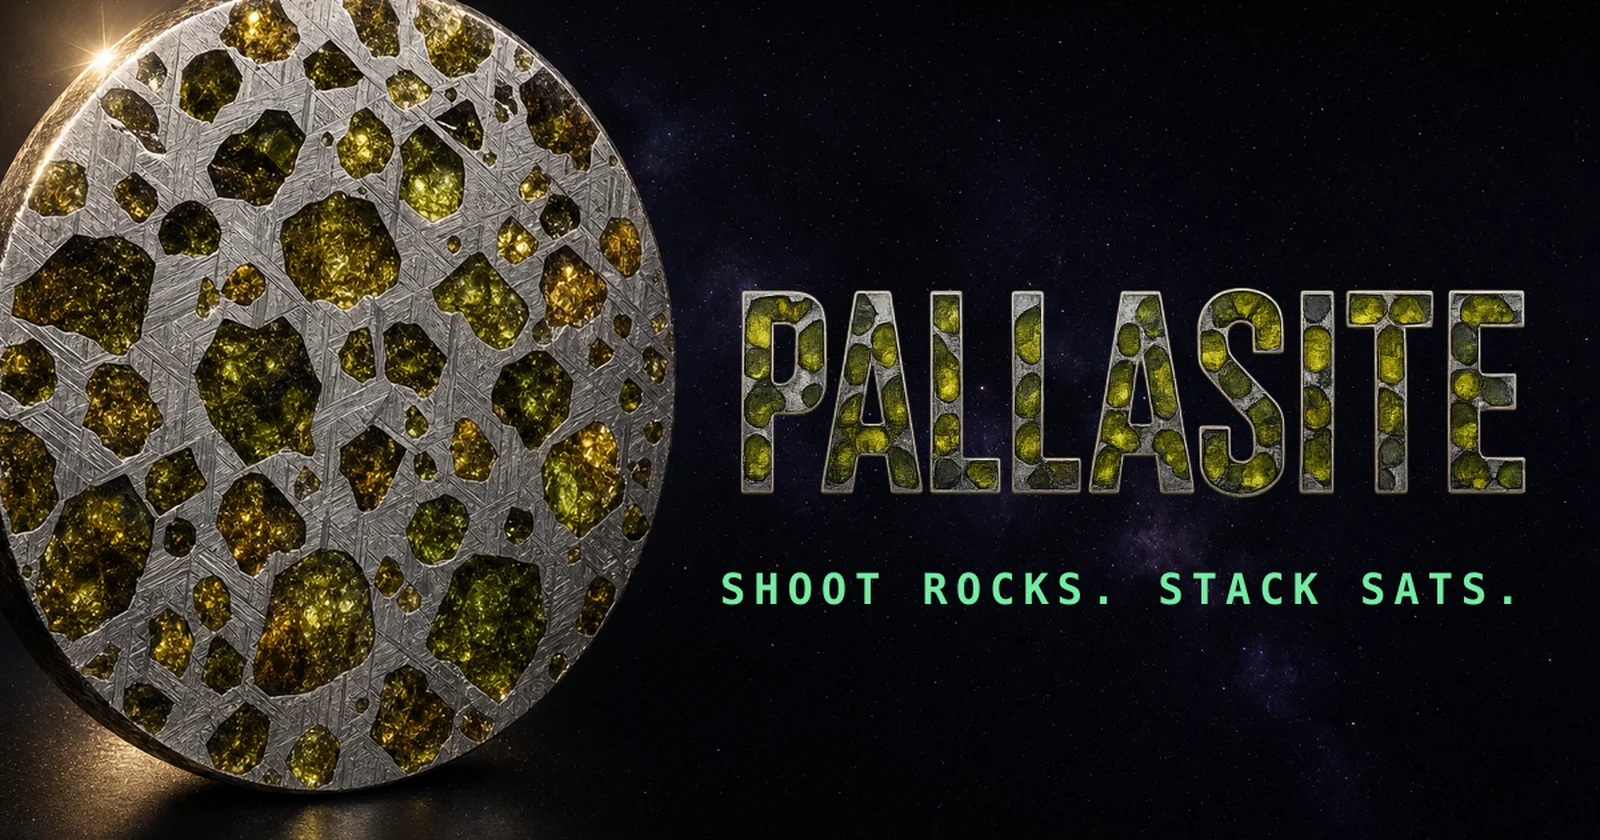
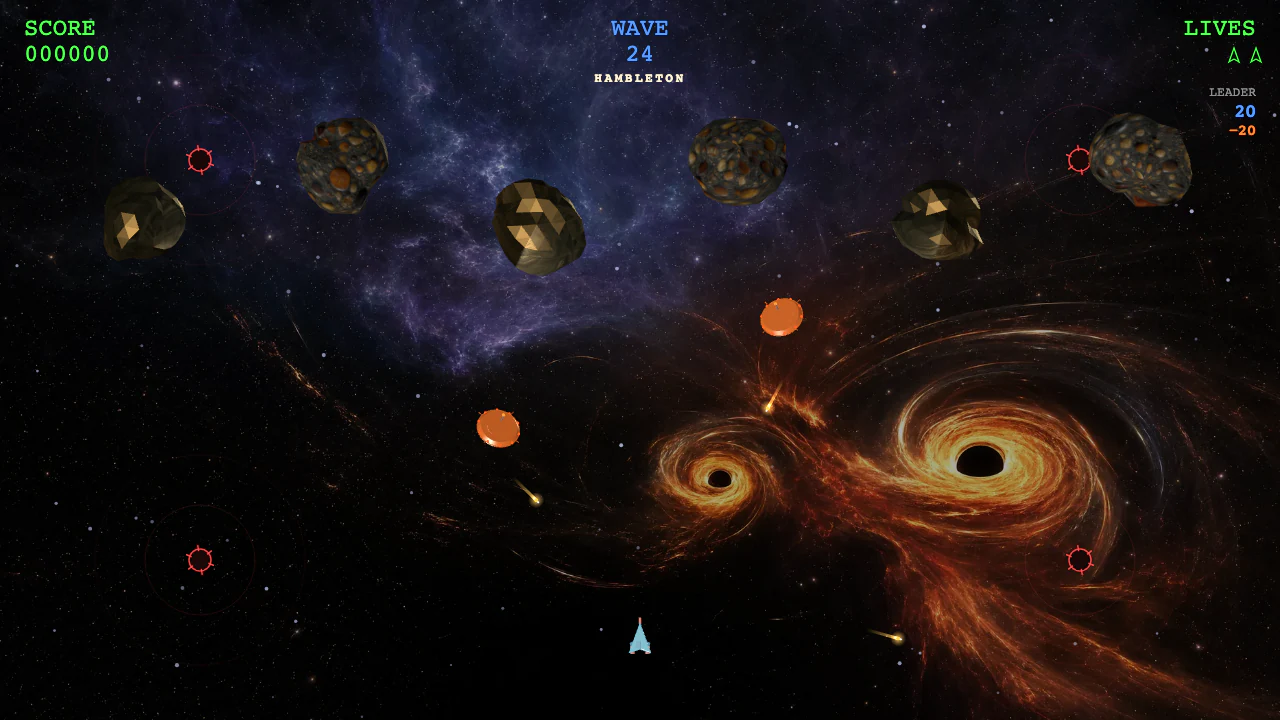
feat(web): improve Pallasite art and mark 600 members

diff --git a/test/well-known-members.test.ts b/test/well-known-members.test.ts
@@ -1,0 +1,39 @@
+import { describe, expect, it, vi } from 'vitest'
+import { loadWellKnownMembers, parseWellKnownMembers, SIX_HUNDRED_MEMBER_DIRECTORY } from '../src/web/well-known-members'
+
+const ALICE = 'a'.repeat(64)
+
+describe('600 well-known members', () => {
+  it('reverses valid NIP-05 names into a pubkey membership map', () => {
+    const members = parseWellKnownMembers({ names: {
+      alice: ALICE.toUpperCase(),
+      alias: ALICE,
+      broken: 'not-a-pubkey',
+      '<unsafe>': '1'.repeat(64),
+    } })
+
+    expect(Array.from(members.entries())).toEqual([[ALICE, 'alice']])
+  })
+
+  it('rejects malformed directory payloads', () => {
+    expect(parseWellKnownMembers(null).size).toBe(0)
+    expect(parseWellKnownMembers({ names: [] }).size).toBe(0)
+    expect(parseWellKnownMembers({ names: 'alice' }).size).toBe(0)
+  })
+
+  it('loads the canonical 600.wtf directory without credentials', async () => {
+    const fetcher = vi.fn(async () => new Response(JSON.stringify({ names: { alice: ALICE } }), {
+      status: 200,
+      headers: { 'content-type': 'application/json' },
+    }))
+
+    const members = await loadWellKnownMembers(undefined, fetcher as typeof fetch)
+
+    expect(members.get(ALICE)).toBe('alice')
+    expect(fetcher).toHaveBeenCalledWith(SIX_HUNDRED_MEMBER_DIRECTORY, expect.objectContaining({
+      cache: 'no-cache',
+      credentials: 'omit',
+      referrerPolicy: 'no-referrer',
+    }))
+  })
+})

diff --git a/src/web/well-known-members.ts b/src/web/well-known-members.ts
@@ -1,0 +1,32 @@
+const HEX_PUBKEY = /^[0-9a-f]{64}$/i
+const MEMBER_NAME = /^[a-z0-9._-]{1,64}$/i
+
+export const SIX_HUNDRED_MEMBER_DIRECTORY = 'https://600.wtf/.well-known/nostr.json'
+
+export function parseWellKnownMembers(payload: unknown): Map<string, string> {
+  const members = new Map<string, string>()
+  if (typeof payload !== 'object' || payload === null || Array.isArray(payload)) return members
+  const names = (payload as { names?: unknown }).names
+  if (typeof names !== 'object' || names === null || Array.isArray(names)) return members
+
+  for (const [name, value] of Object.entries(names).slice(0, 10_000)) {
+    if (!MEMBER_NAME.test(name) || typeof value !== 'string' || !HEX_PUBKEY.test(value)) continue
+    const pubkey = value.toLowerCase()
+    if (!members.has(pubkey)) members.set(pubkey, name)
+  }
+  return members
+}
+
+export async function loadWellKnownMembers(
+  endpoint = SIX_HUNDRED_MEMBER_DIRECTORY,
+  fetchImpl: typeof fetch = fetch,
+): Promise<Map<string, string>> {
+  const response = await fetchImpl(endpoint, {
+    cache: 'no-cache',
+    credentials: 'omit',
+    headers: { accept: 'application/json' },
+    referrerPolicy: 'no-referrer',
+  })
+  if (!response.ok) throw new Error(`member directory ${response.status}`)
+  return parseWellKnownMembers(await response.json())
+}

diff --git a/src/web/main.ts b/src/web/main.ts
@@ -10,6 +10,7 @@ import { rewardLightningAddress, type WebLNProvider } from './lightning-reward'
 import { decode as decodeNip19 } from 'nostr-tools/nip19'
 import { WEB_EDITION } from './web-edition'
 import { connectNostrAccess, currentNostrSigner, NOSTR_SESSION_EVENT, restoreNostrAccess, type ArcadeNostrSigner, type NostrAccess } from './nostr-access'
+import { loadWellKnownMembers } from './well-known-members'
 
 interface WebGame {
   slug: string; gameId: string; name: string; tagline: string; description?: string; developer?: string
@@ -30,6 +31,7 @@ const state = {
   scores: new Map<string, LeaderboardEntry[]>(), relay: 'connecting' as 'connecting' | 'up' | 'down',
   pubkey: '', identityConnecting: false,
   profiles: new Map<string, Profile>(), profileRequests: new Set<string>(),
+  members: new Map<string, string>(),
   social: readSocialState(), activityMode: 'all' as 'all' | 'following',
 }
 
@@ -258,7 +260,10 @@ function activityPanel(): HTMLElement {
     const item = el('li'); const avatar = el('span', 'mini-avatar', identity.label.slice(0, 2).toUpperCase())
     avatar.style.background = avatarCss(score.pubkey)
     if (profile?.picture) { const image = el('img'); image.src = profile.picture; image.alt = ''; avatar.replaceChildren(image) }
-    const text = el('span'); text.append(el('strong', '', identity.label))
+    const text = el('span')
+    const nameRow = el('span', 'player-primary-row'); nameRow.append(el('strong', '', identity.label))
+    const badge = memberBadge(score.pubkey); if (badge) nameRow.append(badge)
+    text.append(nameRow)
     if (identity.nip05) text.append(el('small', 'player-nip05', identity.nip05))
     text.append(el('small', '', `${game.name} · ${new Date(score.at * 1000).toLocaleTimeString([], { hour: '2-digit', minute: '2-digit' })}`))
     item.append(avatar, text, el('b', '', score.score.toLocaleString())); list.append(item)
@@ -281,11 +286,24 @@ function playerLink(player: string | LeaderboardEntry, className = 'player'): HT
   ensureProfile(pubkey)
   const identity = playerIdentity(pubkey, entry, state.profiles.get(pubkey))
   const link = el('a', className)
-  link.append(el('span', 'player-primary', identity.label))
+  const primary = el('span', 'player-primary-row'); primary.append(el('span', 'player-primary', identity.label))
+  const badge = memberBadge(pubkey); if (badge) primary.append(badge)
+  link.append(primary)
   if (identity.nip05) link.append(el('small', 'player-nip05', identity.nip05))
   link.href = `/player/${pubkey}`
   link.addEventListener('click', event => { event.preventDefault(); navigate(link.getAttribute('href')!) })
   return link
+}
+
+function memberBadge(pubkey: string): HTMLElement | undefined {
+  if (WEB_EDITION.key !== '600') return undefined
+  const name = state.members.get(pubkey.toLowerCase())
+  if (!name) return undefined
+  const badge = el('span', 'member-badge', '600B ✓')
+  const description = `Verified 600.wtf well-known member: ${name}@600.wtf`
+  badge.title = description
+  badge.setAttribute('aria-label', description)
+  return badge
 }
 
 function scoreLink(entry: LeaderboardEntry): HTMLElement {
@@ -673,6 +691,12 @@ async function boot(): Promise<void> {
   window.addEventListener('beforeunload', () => feed.dispose(), { once: true })
   if ('serviceWorker' in navigator && import.meta.env.PROD) void navigator.serviceWorker.register('/sw.js')
   render()
+  if (WEB_EDITION.key === '600') {
+    void loadWellKnownMembers().then(members => {
+      state.members = members
+      render()
+    }).catch(() => undefined)
+  }
   localStorage.removeItem('gamestr:pubkey')
   void restoreNostrAccess(RELAYS)
 }

diff --git a/src/web/style.css b/src/web/style.css
@@ -53,7 +53,7 @@ button.primary:hover { box-shadow: 0 0 28px rgba(250,204,21,.24); transform: tra
 .trust-note { margin-top: 1rem; padding: 1rem; border: 1px solid #1f5a45; background: rgba(20,83,61,.15); }.trust-note strong { color: #5ee8ac; font-size: .7rem; letter-spacing: .1em; }.trust-note p { margin: .5rem 0 0; color: #8eaa9e; font-size: .72rem; line-height: 1.5; }
 .text-link { color: var(--cyan); font-size: .7rem; font-weight: 800; text-decoration: none; }.empty-state { grid-column: 1/-1; padding: 3rem; border: 1px dashed #3c414c; color: #8d94a1; text-align: center; }
 .developer-callout { display: grid; grid-template-columns: 1fr 1fr; gap: clamp(2rem,8vw,8rem); align-items: center; padding: clamp(4rem,8vw,8rem) clamp(1rem,8vw,10rem); background: linear-gradient(120deg,#111827,#09090d); border-block: 1px solid var(--line); }.developer-callout h2 { max-width: 16ch; font-size: clamp(2rem,4vw,4rem); line-height: 1; text-transform: uppercase; }.developer-callout p { max-width: 42rem; color: #a8afbb; line-height: 1.6; }.developer-callout pre,.prose pre { overflow: auto; padding: 1.5rem; border: 1px solid #38404d; background: #050609; color: #8fffe9; font: .8rem/1.7 'Space Mono', monospace; }
-.page { min-height: 75vh; max-width: 96rem; margin: 0 auto; padding: clamp(4rem,9vw,9rem) clamp(1rem,5vw,5rem); }.page h1 { font-size: clamp(3rem,7vw,7rem); }.score-boards { display: grid; grid-template-columns: repeat(3,minmax(0,1fr)); gap: 1rem; margin-top: 4rem; }.score-board { border: 1px solid var(--line); background: var(--panel); padding: 1rem; }.score-board .section-heading { margin: 0 0 1rem; }.score-board ol,.detail-board ol { list-style: none; margin: 0; padding: 0; }.score-board li,.detail-board li { display: grid; grid-template-columns: 2rem 1fr auto; gap: .8rem; padding: .75rem 0; border-top: 1px solid var(--line); }.rank { color: #666d7a; font: .7rem 'Space Mono',monospace; }.player { min-width:0;display:grid;align-content:center;overflow:hidden;color:#f5f7fb;text-decoration:none }.player-primary { overflow:hidden;text-overflow:ellipsis;white-space:nowrap }.player-nip05 { overflow:hidden;color:var(--cyan);font:.56rem 'Space Mono',monospace;text-overflow:ellipsis;white-space:nowrap }.score-board li strong,.detail-board li strong,.score-link { color: var(--cyan); }.score-link { font-weight:800;text-decoration:none }.player:hover .player-primary,.score-link:hover { text-decoration:underline }
+.page { min-height: 75vh; max-width: 96rem; margin: 0 auto; padding: clamp(4rem,9vw,9rem) clamp(1rem,5vw,5rem); }.page h1 { font-size: clamp(3rem,7vw,7rem); }.score-boards { display: grid; grid-template-columns: repeat(3,minmax(0,1fr)); gap: 1rem; margin-top: 4rem; }.score-board { border: 1px solid var(--line); background: var(--panel); padding: 1rem; }.score-board .section-heading { margin: 0 0 1rem; }.score-board ol,.detail-board ol { list-style: none; margin: 0; padding: 0; }.score-board li,.detail-board li { display: grid; grid-template-columns: 2rem 1fr auto; gap: .8rem; padding: .75rem 0; border-top: 1px solid var(--line); }.rank { color: #666d7a; font: .7rem 'Space Mono',monospace; }.player { min-width:0;display:grid;align-content:center;overflow:hidden;color:#f5f7fb;text-decoration:none }.player-primary-row { min-width:0;display:flex;align-items:center;gap:.35rem }.player-primary { min-width:0;overflow:hidden;text-overflow:ellipsis;white-space:nowrap }.player-nip05 { overflow:hidden;color:var(--cyan);font:.56rem 'Space Mono',monospace;text-overflow:ellipsis;white-space:nowrap }.member-badge { flex:none;padding:.15rem .3rem;border:1px solid #f7931a;border-radius:999px;background:#fff7ed;color:#9a4d00;font:800 .46rem 'Space Mono',monospace;letter-spacing:.04em;line-height:1.2;white-space:nowrap }.activity-list .player-primary-row { display:flex }.activity-list .member-badge { font-size:.42rem }.score-board li strong,.detail-board li strong,.score-link { color: var(--cyan); }.score-link { font-weight:800;text-decoration:none }.player:hover .player-primary,.score-link:hover { text-decoration:underline }
 .prose { max-width: 72rem; }.dev-steps { display: grid; grid-template-columns: repeat(3,1fr); gap: 1rem; margin: 4rem 0; }.dev-steps section { padding: 1.5rem; border: 1px solid var(--line); background: var(--panel); }.dev-steps b { display: grid; place-items: center; width: 2.5rem; height: 2.5rem; margin-bottom: 2rem; background: var(--yellow); color: #08090d; }.dev-steps p,.dev-safety p { color: #9da4b0; line-height: 1.65; }.dev-safety { margin-top: 3rem; padding: 1.5rem; border-left: 3px solid #3df59d; background: #0d1713; }
 .player-identity { display:grid;grid-template-columns:auto 1fr;align-items:center;gap:2rem }.player-avatar { width:clamp(7rem,15vw,12rem);aspect-ratio:1;border-radius:50%;overflow:hidden;border:2px solid var(--cyan) }.player-avatar img { width:100%;height:100%;object-fit:cover }.player-identity h1 { margin:.5rem 0;font-size:clamp(2.5rem,6vw,6rem) }.player-npub { max-width:58rem;color:#7d8491;font:clamp(.6rem,1.3vw,.8rem)/1.7 'Space Mono',monospace;overflow-wrap:anywhere }.player-bests { margin-top:5rem }.personal-best { display:grid;grid-template-columns:1fr auto;gap:1rem;align-items:center;padding:1.2rem;border:1px solid var(--line);background:var(--panel) }.personal-best .play-small { grid-column:1/-1 }.personal-best .score-link { font-size:1.5rem }.score-detail>h1 { color:var(--cyan) }.score-facts { display:grid;grid-template-columns:repeat(2,minmax(0,1fr));gap:1rem;margin:3rem 0 }.score-facts div { padding:1rem;border:1px solid var(--line);background:var(--panel) }.score-facts dt { color:#717986;font:.65rem 'Space Mono',monospace }.score-facts dd { margin:.5rem 0 0;overflow-wrap:anywhere }.score-detail>.button-link,.score-detail>button { display:inline-block;margin:0 .7rem .7rem 0 }
 .game-detail { min-height: 100vh; display: grid; grid-template-columns: 1.1fr .9fr; align-items: center; }.detail-art { min-height: 70vh; align-self: stretch; display:grid;place-items:center;background:radial-gradient(circle,rgba(124,243,255,.08),transparent 45%); background-size: cover; background-position: center; }.detail-art img { max-width:55%;max-height:38vh;object-fit:contain;filter:drop-shadow(0 20px 45px #000) }.detail-copy { padding: clamp(3rem,7vw,8rem); }.detail-copy h1 { font-size: clamp(3rem,7vw,7rem); }.game-facts { display: grid; grid-template-columns: repeat(4,1fr); gap: 1rem; margin-top: 3rem; }.game-facts dt { color: #69707c; font: .6rem 'Space Mono',monospace; }.game-facts dd { margin: .3rem 0 0; font-weight: 800; }.detail-board { grid-column: 1/-1; width: min(60rem,calc(100% - 2rem)); margin: 0 auto 7rem; padding: 1.5rem; border: 1px solid var(--line); background: var(--panel); }
@@ -147,6 +147,7 @@ html[data-web-edition="600"] .challenge-board .player { color: #222; }
 html[data-web-edition="600"] .score-board .player-nip05,
 html[data-web-edition="600"] .detail-board .player-nip05,
 html[data-web-edition="600"] .challenge-board .player-nip05 { color: #bd6200; }
+html[data-web-edition="600"] .member-badge { border-color:#222;background:#222;color:#f7931a; }
 html[data-web-edition="600"] .score-board li strong,
 html[data-web-edition="600"] .detail-board li strong,
 html[data-web-edition="600"] .score-link { color: #bd6200; }

diff --git a/test/web-platform.test.ts b/test/web-platform.test.ts
@@ -122,6 +122,7 @@ describe('public web platform boundaries', () => {
     expect((editorial.hero as Record<string, string>)['neon-sentinel']).toMatch(/^\/editorial\//)
     expect((editorial.logo as Record<string, string>)['neon-sentinel']).toMatch(/^\/editorial\//)
     expect((editorial.hero as Record<string, string>)['hang-on-fren']).toMatch(/^\/editorial\//)
+    expect((editorial.logo as Record<string, string | null>)['pallasite']).toBeNull()
     expect((editorial.logo as Record<string, string | null>)['hang-on-fren']).toBeNull()
     expect((editorial.hero as Record<string, string>)['nogames-miner-v1']).toMatch(/^\/editorial\//)
     expect((editorial.hero as Record<string, string>)['nogames-snake-v1']).toMatch(/^\/editorial\//)